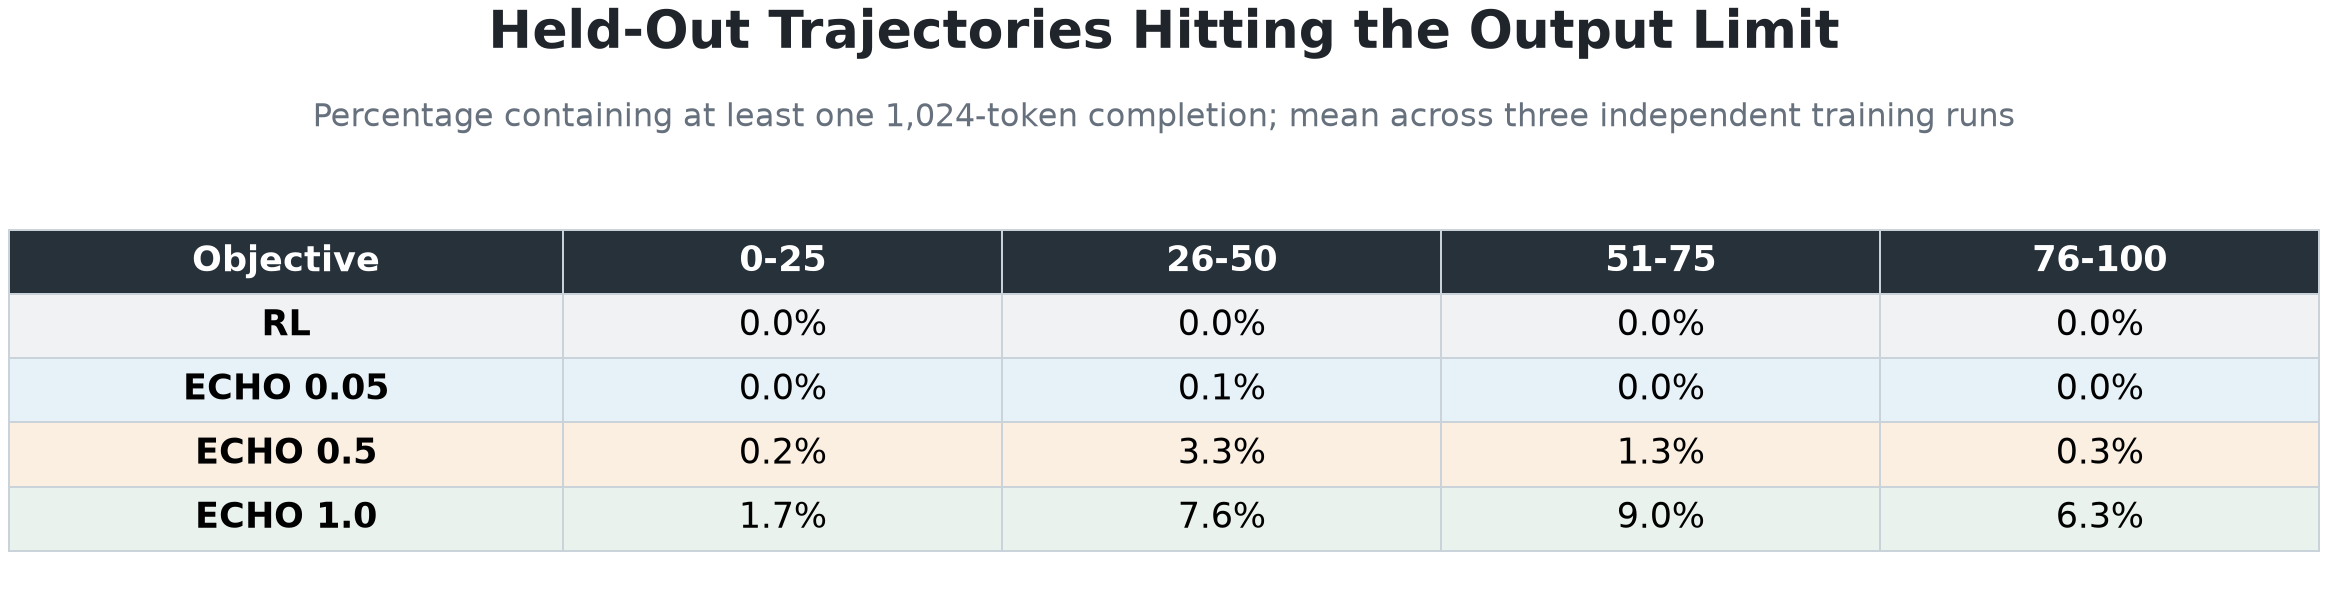
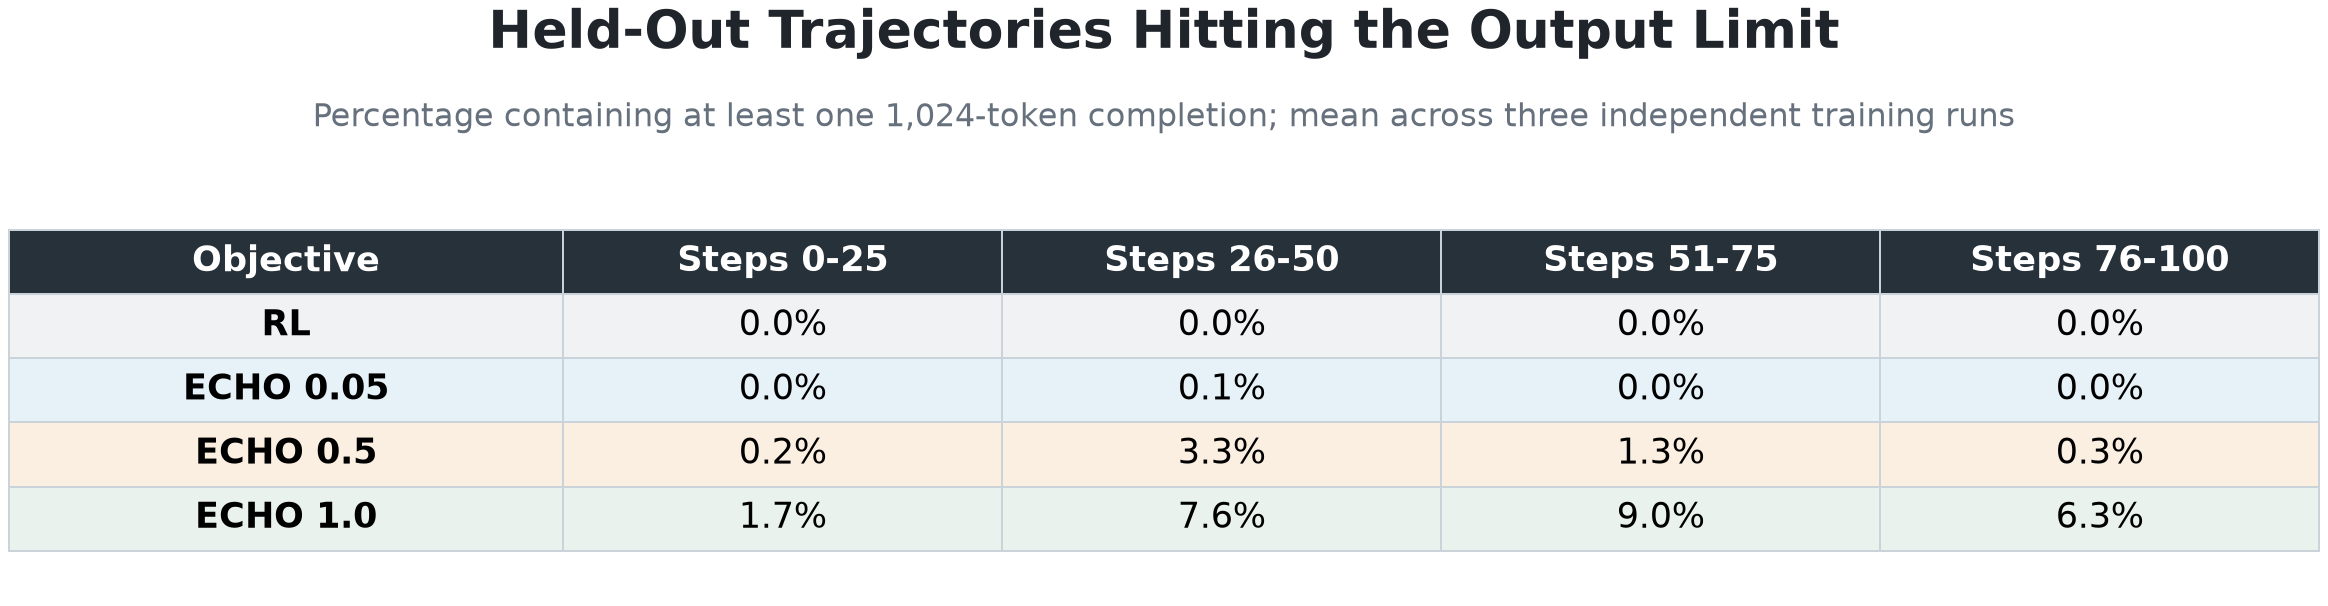
Label output-limit table step ranges

diff --git a/scripts/render_token_metric_tables.py b/scripts/render_token_metric_tables.py
@@ -117,7 +117,7 @@ def render_output_limit_table() -> None:
     axis.axis("off")
     table = axis.table(
         cellText=rows,
-        colLabels=["Objective", *quarters],
+        colLabels=["Objective", *[f"Steps {quarter}" for quarter in quarters]],
         cellLoc="center",
         colLoc="center",
         loc="center",

diff --git a/index.md b/index.md
@@ -122,7 +122,7 @@ To show how concentrated this behavior was, we also measured the percentage of h
 
 ![Held-out trajectories hitting the output limit](figures/token_metrics/heldout_output_limit_behavior.png)
 
-*Percentage of held-out trajectories containing at least one 1,024-token assistant completion. Each five-step checkpoint evaluates 28 held-out tasks with three rollout replicates; values are pooled into 25-step windows and then averaged across three independent training runs.*
+*Percentage of held-out trajectories containing at least one 1,024-token assistant completion. Each five-step checkpoint evaluates 28 held-out tasks with three rollout replicates; values are grouped into the training-step ranges shown in the column headers and then averaged across three independent training runs.*
 
 This behavior could be constrained at inference by stopping generation at the first newline, enforcing a one-action output grammar, or using a substantially smaller completion limit. The present experiments preserve the same 1,024-token limit for RL and ECHO, which exposes that ECHO can induce trajectory continuation or role confusion without necessarily destroying the useful policy encoded in the first action.
 
